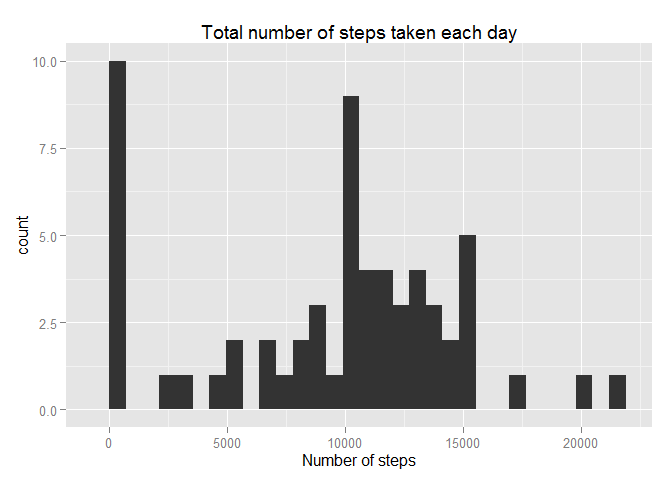
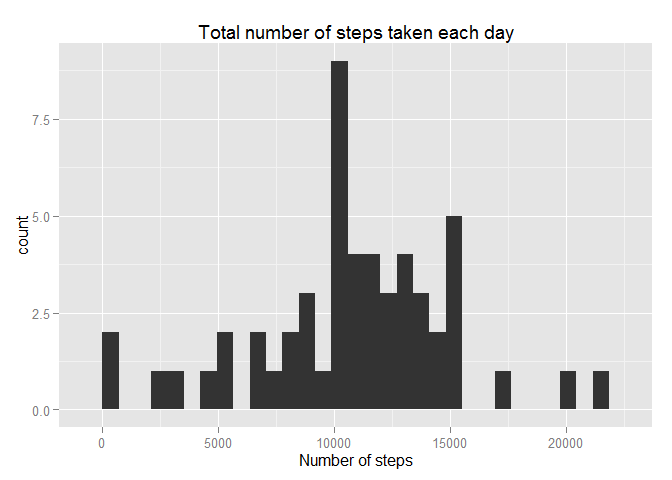
Update

diff --git a/PA1_template.html b/PA1_template.html
@@ -88,19 +88,19 @@ str(data)</code></pre>
 <div id="total-number-of-steps-taken-per-day" class="section level4">
 <h4>Total number of steps taken per day</h4>
 <pre class="r"><code>by.day&lt;-group_by(data, date)
-steps.day&lt;-summarise(by.day, total=sum(steps,na.rm=T))
+steps.day&lt;-summarise(by.day, total=sum(steps))
 steps.day</code></pre>
 <pre><code>## Source: local data frame [61 x 2]
 ## 
 ##          date total
-## 1  2012-10-01     0
+## 1  2012-10-01    NA
 ## 2  2012-10-02   126
 ## 3  2012-10-03 11352
 ## 4  2012-10-04 12116
 ## 5  2012-10-05 13294
 ## 6  2012-10-06 15420
 ## 7  2012-10-07 11015
-## 8  2012-10-08     0
+## 8  2012-10-08    NA
 ## 9  2012-10-09 12811
 ## 10 2012-10-10  9900
 ## ..        ...   ...</code></pre>
@@ -109,20 +109,20 @@ steps.day</code></pre>
 <h4>Calculate the median and mean of the total number of steps taken per day.</h4>
 <pre class="r"><code>summary(steps.day)</code></pre>
 <pre><code>##          date        total      
-##  2012-10-01: 1   Min.   :    0  
-##  2012-10-02: 1   1st Qu.: 6778  
-##  2012-10-03: 1   Median :10395  
-##  2012-10-04: 1   Mean   : 9354  
-##  2012-10-05: 1   3rd Qu.:12811  
+##  2012-10-01: 1   Min.   :   41  
+##  2012-10-02: 1   1st Qu.: 8841  
+##  2012-10-03: 1   Median :10765  
+##  2012-10-04: 1   Mean   :10766  
+##  2012-10-05: 1   3rd Qu.:13294  
 ##  2012-10-06: 1   Max.   :21194  
-##  (Other)   :55</code></pre>
-<p>Mean is 9.354 steps.<br />Median is 10.395 steps</p>
+##  (Other)   :55   NA's   :8</code></pre>
+<p>Mean is 10.765 steps.<br />Median is 10.766 steps</p>
 </div>
 <div id="histogram-of-the-total-number-of-steps-taken-each-day" class="section level4">
 <h4>Histogram of the total number of steps taken each day</h4>
 <pre class="r"><code>qplot(total, data=steps.day, main=&quot;Total number of steps taken each day&quot;,
     xlab=&quot;Number of steps&quot;)</code></pre>
[2 lines of base64/hex data omitted]
 </div>
 </div>
 <div id="what-is-the-average-daily-activity-pattern" class="section level2">
@@ -165,9 +165,8 @@ qplot(interval,meanstep,data=steps.series,geom=&quot;line&quot;,main=&quot;Avera
 <h4>Strategy for filling in all of the missing values in the dataset</h4>
 <p>Use the mean for that 5-minute interval.</p>
 </div>
-<div id="new-dataset-that-is-equal-to-the-original-dataset-but-with-the-missing" class="section level4">
-<h4>New dataset that is equal to the original dataset but with the missing</h4>
-<p>data filled in.</p>
+<div id="new-dataset-that-is-equal-to-the-original-dataset-but-with-the-missing-data-filled-in." class="section level4">
+<h4>New dataset that is equal to the original dataset but with the missing data filled in.</h4>
 <pre class="r"><code>datnew&lt;-data
 datnew$mean&lt;-steps.series$meanstep
 lost&lt;-is.na(datnew$steps)
@@ -203,14 +202,13 @@ qplot(sum, data=step.day2,main=&quot;Total number of steps taken each day (II)&q
 </div>
 <div id="impact-of-imputing-missing-data" class="section level4">
 <h4>Impact of imputing missing data</h4>
-<p>Decreases the number of days with few steps.<br />Increases the median and mean.<br />Significantly increase days with about 11.000 steps (around median and mean)</p>
+<p>Very slight increase the mean. The middle values rise.<br />I don´t apprecited a significant impact of imputing missing data.</p>
 </div>
 </div>
 <div id="are-there-differences-in-activity-patterns-between-weekdays-and-weekends" class="section level2">
 <h2>Are there differences in activity patterns between weekdays and weekends?</h2>
-<div id="create-a-new-factor-variable-in-the-dataset-with-two-levels-weekday-and" class="section level4">
-<h4>Create a new factor variable in the dataset with two levels – “weekday” and</h4>
-<p>“weekend”</p>
+<div id="create-a-new-factor-variable-in-the-dataset-with-two-levels-weekday-and-weekend" class="section level4">
+<h4>Create a new factor variable in the dataset with two levels – “weekday” and “weekend”</h4>
 <pre class="r"><code>datnew$dayweek&lt;-weekdays(as.Date(datnew$date))
 datnew$dayweek[datnew$dayweek==&quot;sábado&quot;|datnew$dayweek==&quot;domingo&quot;]&lt;-&quot;weekend&quot;
 datnew$dayweek[!(datnew$dayweek==&quot;weekend&quot;)]&lt;-&quot;weekday&quot;

diff --git a/PA1_template.md b/PA1_template.md
@@ -38,7 +38,7 @@ library("ggplot2")
 
 ```r
 by.day<-group_by(data, date)
-steps.day<-summarise(by.day, total=sum(steps,na.rm=T))
+steps.day<-summarise(by.day, total=sum(steps))
 steps.day
 ```
 
@@ -46,14 +46,14 @@ steps.day
 ## Source: local data frame [61 x 2]
 ## 
 ##          date total
-## 1  2012-10-01     0
+## 1  2012-10-01    NA
 ## 2  2012-10-02   126
 ## 3  2012-10-03 11352
 ## 4  2012-10-04 12116
 ## 5  2012-10-05 13294
 ## 6  2012-10-06 15420
 ## 7  2012-10-07 11015
-## 8  2012-10-08     0
+## 8  2012-10-08    NA
 ## 9  2012-10-09 12811
 ## 10 2012-10-10  9900
 ## ..        ...   ...
@@ -67,16 +67,16 @@ summary(steps.day)
 
 ```
 ##          date        total      
-##  2012-10-01: 1   Min.   :    0  
-##  2012-10-02: 1   1st Qu.: 6778  
-##  2012-10-03: 1   Median :10395  
-##  2012-10-04: 1   Mean   : 9354  
-##  2012-10-05: 1   3rd Qu.:12811  
+##  2012-10-01: 1   Min.   :   41  
+##  2012-10-02: 1   1st Qu.: 8841  
+##  2012-10-03: 1   Median :10765  
+##  2012-10-04: 1   Mean   :10766  
+##  2012-10-05: 1   3rd Qu.:13294  
 ##  2012-10-06: 1   Max.   :21194  
-##  (Other)   :55
+##  (Other)   :55   NA's   :8
 ```
-Mean is 9.354 steps.  
-Median is 10.395 steps
+Mean is 10.765 steps.  
+Median is 10.766 steps
 
 ####Histogram of the total number of steps taken each day
 
@@ -146,8 +146,7 @@ sum(is.na(data$steps))
 ####Strategy for filling in all of the missing values in the dataset
 Use the mean for that 5-minute interval.
 
-####New dataset that is equal to the original dataset but with the missing 
-data filled in.
+####New dataset that is equal to the original dataset but with the missing data filled in.
 
 ```r
 datnew<-data
@@ -176,7 +175,7 @@ qplot(sum, data=step.day2,main="Total number of steps taken each day (II)",
       xlab="Number of steps")
 ```
 
-![](PA1_template_files/figure-html/unnamed-chunk-8-1.png) 
+![](PA1_template_files/figure-html/unnamed-chunk-7-1.png) 
 
 ####Mean and median total number of steps taken per day.
 
@@ -195,16 +194,15 @@ summary(step.day2)
 ##  (Other)   :55
 ```
 
-####Impact of imputing missing data
-Decreases the number of days with few steps.  
-Increases the median and mean.  
-Significantly increase days with about 11.000 steps (around median and mean)
+####Impact of imputing missing data  
+Very slight increase the mean.
+The middle values rise.  
+I don´t apprecited a significant impact of imputing missing data.
 
 
 ## Are there differences in activity patterns between weekdays and weekends?
 
-####Create a new factor variable in the dataset with two levels – “weekday” and 
-“weekend”
+####Create a new factor variable in the dataset with two levels – “weekday” and “weekend”
 
 ```r
 datnew$dayweek<-weekdays(as.Date(datnew$date))
